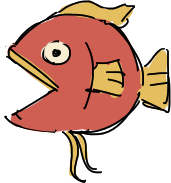
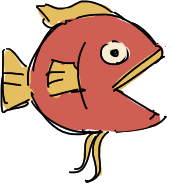
different sized fishes now working properly

diff --git a/sceneMain.js b/sceneMain.js
@@ -1,16 +1,21 @@
 
 // CONSTANTS
 const t1 = 2;
-const t2 = 20;
+const t2 = 5;
+const t3 = 30;
 const tf = 60;
 const SMALL_SPAWN_TIME = 2000;
 const MEDIUM_SPAWN_TIME = 4000;
 const BIG_SPAWN_TIME = 8000;
+const SMALL_SCORE = 1;
+const MEDIUM_SCORE = 5;
+const BIG_SCORE = 10;
 
 const fishSize = {
     SMALL: 0,
     MEDIUM: 1,
-    BIG: 2
+    BIG: 2,
+    BIGGEST: 3
 }
 
 class SceneMain extends Phaser.Scene {
@@ -24,7 +29,9 @@ class SceneMain extends Phaser.Scene {
         this.load.image('bg', 'assets/bg.png');
         this.load.image('hook', 'assets/fishing-line.png');
         this.load.image('blank', 'assets/hook-fish-hitbox.png')
-    
+
+        this.load.image('voidfish', 'assets/voidfish.png');
+        this.load.image('biggest', 'assets/biggest-fish.png');
         this.load.image('big', 'assets/big-fish.png');
         this.load.image('medium', 'assets/med-fish.png');
         this.load.image('small', 'assets/small-fish.png');
@@ -38,37 +45,49 @@ class SceneMain extends Phaser.Scene {
         this.hook;
         this.fishes = this.add.group();
         this.debris = this.add.group();
+        this.timerText;
+        this.smallTimer;
+        this.mediumTimer;
+        this.bigTimer;
 
         // SPAWN THE FISHES!!!
-        this.time.addEvent( {
+        this.smallTimer = this.time.addEvent( {
             delay: SMALL_SPAWN_TIME,
             callback: function() {
-                var fish = new Fish(this, 'small', fishSize.SMALL);
+                var fish = new SmallFish(this);
                 this.fishes.add(fish);
             },
             callbackScope: this,
             loop: true
         });
+
+        this.globalTimer = this.time.addEvent({
+            delay: 1000,
+            callback: function() {
+                // this.timerText.setText("Time Left: " + time);
+            }
+        });
     }
     
     
-    create ()
-    {
+    create() {
         // add background image
         this.add.image(0, 0, 'bg').setOrigin(0,0);
     
         // HOOK
         this.hook = new Hook(this);
-        this.physics.add.overlap(this.hook, this.fishes, this.hookFish);
+        this.physics.add.overlap(this.hook, this.fishes, this.overlayHookFish);
 
         // SCORE
-        this.scoreText = this.add.text(16, 16, 'fishes: 0', { fontSize: '16px', fill: '#000'});
+        this.scoreText = this.add.text(16, 16, 'fishes: 0', { fontSize: '16px', fill: '#000'});  
         
+        this.timerText = this.add.text(16, 464, 'Time Left: 0', { fontSize: '16px', fill: '#000'});
+
+        new BiggestFish(this);
     }
     
-    update ()
-    {
-        // console.log(this.hook.y)
+    update(){
+        console.log(this.threshhold);
     }
 
     // lets the fish off the hook, it within range of catching, add to score, otherwise it runs away
@@ -76,11 +95,11 @@ class SceneMain extends Phaser.Scene {
         if (!this.hook.hasFish()) return; // if nothing on hook, nothing happens
         
         if (this.hook.y <= -45) {
-            this.increaseScore(); // gives more fishes for bigger fish
+            this.increaseScore(this.hook.fish); // gives more fishes for bigger fish
             this.scoreText.setText('fishes: ' + this.score);
             this.hook.removeFish(true);
 
-            if (this.score >= this.threshhold)
+            if (this.score >= this.threshhold && this.threshhold < tf)
                 this.increasDifficulty();
 
         } else {
@@ -89,15 +108,46 @@ class SceneMain extends Phaser.Scene {
     }
    
     
-
-
     // adds to current score based on fish size
-    increaseScore() {
-        this.score += 1;
+    increaseScore(fish) {
+        switch (fish.size) {
+            case fishSize.SMALL:
+                this.score += SMALL_SCORE;
+                break;
+            case fishSize.MEDIUM:
+                this.score += MEDIUM_SCORE;
+                break;
+            case fishSize.BIG:
+                this.score += BIG_SCORE;
+                break;
+            case fishSize.BIGGEST:
+                // stan: what why ain't the counter going up? Better not be like on of those dumb money suckling arcade games >:[
+                    this.time.addEvent({
+                        delay: BIG_SPAWN_TIME,
+                        callback: function() {
+                            this.add.image(0, 0, 'voidfish').setOrigin(0, 0);
+                            this.endGame();
+                        },
+                        callbackScope: this,
+                        loop: false
+                    });           
+        }
+    }
+
+    endGame() {
+        this.time.addEvent({
+            delay: BIG_SPAWN_TIME,
+            callback: function() {
+                this.scene.start("SceneGameOver");
+            },
+            callbackScope: this,
+            loop: false
+        });
     }
 
     // attaches fish to the hook if no current fish on the hook
-    hookFish(hook, fish) {
+    overlayHookFish(hook, fish) {
+
         if (fish.size == fishSize.SMALL && !hook.hasFish()) {
             hook.addFish(fish);
         } else if (!hook.hasFish()) {
@@ -108,30 +158,58 @@ class SceneMain extends Phaser.Scene {
         } else if (fish.size == fishSize.BIG && hook.fish.size == fishSize.MEDIUM) {
             hook.removeFish(false);
             hook.addFish(fish);
-        }       
+        } else if (fish.size == fishSize.BIGGEST && hook.fish.size == fishSize.BIG) {
+            hook.removeFish(false);
+            hook.addFish(fish);
+        }
     }
-
-    
+ 
     // adds more fish variety && obstacles
-    increasDifficulty(){
+    increasDifficulty() {
         console.log("next threshhold " + this.threshhold);
         switch (this.level) {
             case 0:
-                this.threshhold = this.t2;
-                this.time.addEvent( {
+                this.threshhold = t2;
+                this.mediumTimer = this.time.addEvent( {
                     delay: MEDIUM_SPAWN_TIME,
                     callback: function() {
-                        var fish = new Fish(this, 'medium', fishSize.MEDIUM);
+                        var fish = new MediumFish(this);
                         this.fishes.add(fish);
                     },
                     callbackScope: this,
                     loop: true
                 });        
                 this.level++;
+                break;
             case 1:
+                this.threshhold = t3;
+                this.bigTimer = this.time.addEvent( {
+                    delay: BIG_SPAWN_TIME,
+                    callback: function() {
+                        var fish = new BigFish(this);
+                        this.fishes.add(fish);
+                    },
+                    callbackScope: this,
+                    loop: true
+                });        
                 this.level++;
-        }
-        
+                break;
+            case 2:
+                this.threshhold = tf;
+                this.smallTimer.destroy();
+                this.mediumTimer.destroy();
+                this.bigTimer.destroy();
+                console.log("Biggist Fish!!!");
+                this.time.addEvent({
+                    delay: BIG_SPAWN_TIME,
+                    callback: function() {
+                        var fish = new BiggestFish(this);
+                        this.fishes.add(fish);
+                    },
+                    callbackScope: this,
+                    loop: false
+                });
+        }   
     }
 }
 

diff --git a/entity.js b/entity.js
@@ -57,14 +57,10 @@ class Hook extends Entity {
 
 
 class Fish extends Entity {
-    constructor(scene, image, size) 
+    constructor(scene, x, y, image) 
     {
-        var x = Phaser.Math.Between(-100, -10);
-        var y = Phaser.Math.Between(150, 470);
-        var speed = Phaser.Math.Between(40, 70);
         super(scene, x, y, image);
-        this.setVelocity(speed, 0);
-        this.size = size;
+        this.size;
     }
 
     update() {
@@ -77,5 +73,53 @@ class Fish extends Entity {
     flee() {
         console.log("IM FREEEEEE");
         this.destroy();
+    }
+}
+
+class SmallFish extends Fish {
+    constructor(scene) {
+        var x = Phaser.Math.Between(-100, -10);
+        var y = Phaser.Math.Between(150, 470);
+        super(scene, x, y, 'small');
+        var speed = Phaser.Math.Between(70, 100);
+        this.setVelocity(speed, 0);
+        this.size = fishSize.SMALL;
+        this.setCircle(10, 40, 0);
+    }
+}
+
+class MediumFish extends Fish {
+    constructor(scene) {
+        var x = Phaser.Math.Between(-100, -20);
+        var y = Phaser.Math.Between(200, 470);
+        super(scene, x, y, 'medium');
+        var speed = Phaser.Math.Between(50, 70);
+        this.setVelocity(speed, 0);
+        this.size = fishSize.MEDIUM;
+        this.setCircle(15, 120, 0);
+    }
+}
+
+class BigFish extends Fish {
+    constructor(scene) {
+        var x = Phaser.Math.Between(-100, -40);
+        var y = Phaser.Math.Between(200, 470);
+        super(scene, x, y, 'big');
+        var speed = Phaser.Math.Between(30, 50);
+        this.setVelocity(speed, 0);
+        this.size = fishSize.BIG;
+        this.setCircle(30, 130, 40);
+    }
+}
+
+class BiggestFish extends Fish {
+    constructor(scene) {
+        var x = -150;
+        var y = 300;
+        super(scene, x, y, 'biggest');
+        var speed = 10;
+        this.setVelocity(speed, 0);
+        this.size = fishSize.BIGGEST;
+        this.setCircle(100, 300, 50);
     }
 }
